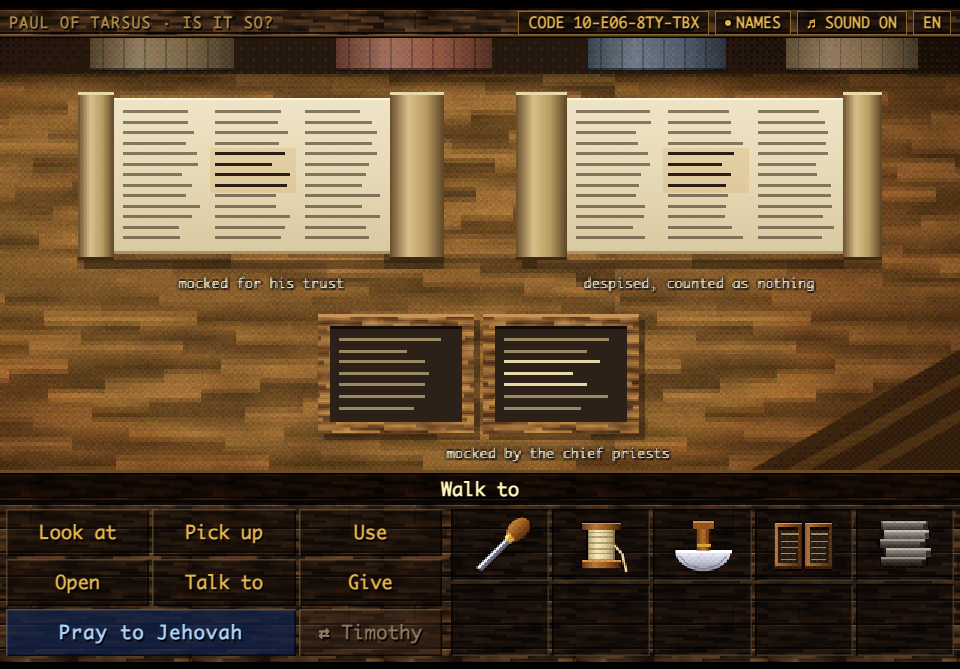
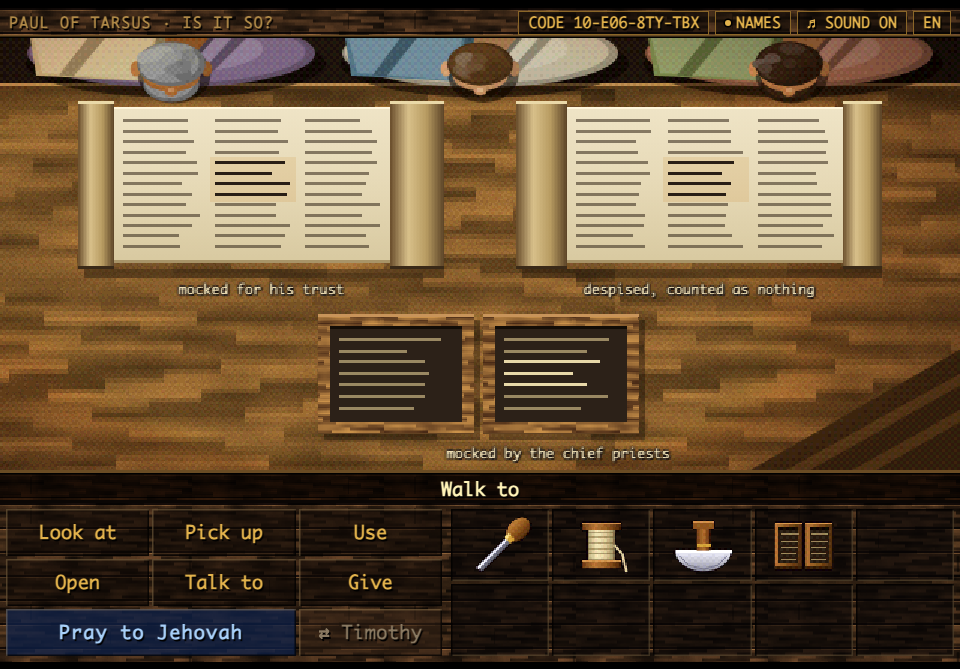
Chapter 10: paint scroll table listeners with top-down heads and shoulders

Changed region(s): [[0.0, 0.0598, 1.0, 0.4484], [0.9062, 0.7773, 0.9688, 0.867]]

diff --git a/levels/chapter10.js b/levels/chapter10.js
@@ -209,14 +209,30 @@ ART.syn10={w:320,q:12,
    under it, in the player's language (cap10). */
 const tabV=()=>F.gone?'b':'';
 /* where the scrolls lie: [left edge, width] for two, and for three */
-const SLOT={2:[[26,122],[172,122]],3:[[10,94],[113,94],[216,94]]},SY=20,SHH=52,ROLLW=11;
+const SLOT={2:[[26,122],[172,122]],3:[[10,94],[113,94],[216,94]]},SY=23,SHH=52,ROLLW=11;
 ART.table10={w:320,q:12,variant:tabV,
- paint(g,v){const r=rng(1019),b=v==='b',WD=b?'#8a6a3e':'#7a5a34';
+ paint(g,v){const r=rng(1019),b=v==='b',WD=b?'#8a6a3e':'#7a5a34',rim=15;
   R(g,0,0,320,144,WD);tex(g,'wood',.32,0,0,320,144,'overlay',1.6);tex(g,'grain',.1,0,0,320,144,'overlay',.5);
-  /* those who listen, across the table: their robes, cut off by the edge of the view. No faces. */
-  R(g,0,0,320,12,'#2a2018');for(const[x,w,c]of b?[[18,50,'#8e7a5a'],[92,44,'#5f7f8c'],[168,52,'#a89468'],[250,48,'#7a6a8a']]:[[30,48,'#7a6a52'],[112,52,'#8a5a4a'],[196,46,'#5a6a7a'],[262,44,'#9a8a6a']]){
-    g.fillStyle=lg(g,x,0,x+w,0,[tint(c,-.3),tint(c,.14),c,tint(c,-.4)]);g.fillRect(x,0,w,10.6);for(let i=4;i<w-3;i+=7)R(g,x+i,0,.6,10.6,'rgba(0,0,0,.2)');R(g,x,10,w,.8,'rgba(0,0,0,.4)')}
-  ao(g,0,12,320,7,'t',.4);
+  /* those who listen, across the table: seen from above, their shoulders in tunic and mantle and the crowns of their heads over the table's edge */
+  R(g,0,0,320,rim,'#231b15');R(g,0,rim,320,1.1,'#b08a58');R(g,0,rim+1.1,320,.9,'#5a4226');ao(g,0,rim+2,320,6,'t',.38);
+  const men=b?[[57,96,11.4,8.8,'#9a8664','#b8a47c','#b88a62','#d0d0d0',1,'#d0d0d0'],[160,92,11,8.5,'#6e8c82','#4f6f7c','#c89868','#2a1a12',0,null],[263,96,11.4,8.8,'#8e7a56','#b09a6c','#b47e52','#4a3220',0,'#4a3220']]
+    :[[57,96,11.4,8.8,'#7a6880','#b8a680','#a8703f','#8a8a8a',0,'#8a8a8a'],[160,92,11,8.5,'#b8b09c','#587482','#c69870','#5a4026',0,null],[263,96,11.4,8.8,'#9a705a','#7a8a5a','#c08c5c','#3a2a1c',0,'#3a2a1c']];
+  men.forEach(([cx,w,hrx,hry,tu,cl,sk,ha,bald,bd],i)=>{const mr=rng(4001+i*77+(b?0:300)),hw=w/2,shY=rim-10,hy=rim-5.2;
+    oval(g,cx+1.5,shY+3.5,hw+2,11.2,'rgba(14,10,8,.55)');
+    oval(g,cx,shY,hw,11.4,tint(tu,-.2));oval(g,cx-1.2,shY-.5,hw-2,10.6,tu);oval(g,cx-4,shY-1.5,hw*.72,8.5,tint(tu,.14));
+    poly(g,[cx+hw*.42,0,cx+hw*.52,0,cx+hw*.25,rim-2,cx+hw*.17,rim-1.6],tint(tu,-.24));
+    poly(g,[cx-hrx-3,0,cx+hrx+3,0,cx+4,hy+2,cx-4,hy+2],tint(tu,-.38));poly(g,[cx-hrx-1,0,cx+hrx+1,0,cx+3,hy+1,cx-3,hy+1],tint(sk,-.22));
+    poly(g,[cx-hw+1,0,cx-2,0,cx-5,rim-.5,cx-hw+3,rim-2.5],cl);poly(g,[cx-hw+2,0,cx-6,0,cx-9,rim-.9,cx-hw+5,rim-3.5],tint(cl,.16));
+    poly(g,[cx-hw*.58,0,cx-hw*.46,0,cx-hw*.68,rim-2.2,cx-hw*.78,rim-2.8],tint(cl,-.22));poly(g,[cx-5,0,cx-2,0,cx-5,rim-.5,cx-8,rim-.7],tint(cl,-.28));
+    oval(g,cx+1,hy+2.2,hrx+.8,hry+1,'rgba(18,12,8,.55)');
+    if(bd){oval(g,cx,hy+hry*.62,hrx*.82,hry*.68,tint(bd,-.22));oval(g,cx-.6,hy+hry*.56,hrx*.72,hry*.6,bd);oval(g,cx-1.5,hy+hry*.52,hrx*.45,hry*.42,tint(bd,.14))}
+    oval(g,cx,hy+hry*.32,hrx*.84,hry*.58,tint(sk,-.1));oval(g,cx-.6,hy+hry*.28,hrx*.72,hry*.48,sk);
+    oval(g,cx,hy+hry*.88,2.2,1.8,tint(sk,-.05));R(g,cx-1.2,hy+hry*.78,2,1.4,tint(sk,.18));
+    oval(g,cx-hrx-.4,hy+.4,1.8,2.6,tint(sk,.05));oval(g,cx+hrx+.4,hy+.4,1.8,2.6,tint(sk,-.18));
+    oval(g,cx,hy-1.2,hrx,hry*.85,tint(ha,-.22));oval(g,cx-.8,hy-1.6,hrx*.88,hry*.76,ha);
+    for(let j=0;j<18;j++){const a=mr()*6.2832,d=Math.sqrt(mr())*.78,lx=cx+Math.cos(a)*d*hrx,ly=(hy-1.4)+Math.sin(a)*d*hry*.75,
+      sh=(-(lx-cx)/hrx-(ly-hy)/hry)*.22+(mr()-.5)*.14;oval(g,lx,ly,2.2+mr()*1.8,1.6+mr()*1.2,tint(ha,sh))}
+    if(bald){oval(g,cx,hy+.4,hrx*.68,hry*.82,tint(sk,-.04));oval(g,cx-1.2,hy-.6,hrx*.48,hry*.58,tint(sk,.18))}});
   /* the steps down from the platform, at the near corner */
   poly(g,[250,144,320,104,320,144],'#4a3620');poly(g,[262,144,320,112,320,116,270,144],'#6a4e2c');poly(g,[284,144,320,124,320,128,292,144],'#6a4e2c');
   lightmap(g,320,b?'#c8c0b8':'#b8aeb0',l=>{pool(l,b?200:120,60,230,110,'#fff0d0',.8);pool(l,160,118,150,40,'#ffe8c0',.4)})},
@@ -240,7 +256,7 @@ ART.table10={w:320,q:12,variant:tabV,
       const sd=rng(1051+dx+(EV[st.t]?EV[st.t].seed:0));for(let j=0;j<7;j++)R(g,tx+dx+7,ty+8+j*3.8,22+sd()*14,.8,dx&&j>1&&j<5?'#e8d8a8':'#9a8862')}}},
  /* the names of what lies open: under each scroll, and on the near edge of the table for the tablets */
  front(g,t){const st=G.tab10;if(!st)return;const slots=SLOT[st.n];G.caps10=[];
-  st.s.forEach((k,i)=>{const[x,w]=slots[i];cap10(g,(k?PLACE[k]:SHUT).cap,x+w/2,SY+SHH+10,w+8)});
+  st.s.forEach((k,i)=>{const[x,w]=slots[i];cap10(g,(k?PLACE[k]:SHUT).cap,x+w/2,SY+SHH+9,w+8)});
   if(st.has)cap10(g,(st.t?EV[st.t]:CLOSED).cap,186,138.4,150)}};
 /* cap10: a caption on the table, in small letters with a dark edge, as the names on the map are written. It is made to fit its width. */
 function cap10(g,s,x,y,w){s=T(s);let sz=4.6;const font=z=>`bold ${z}px "Lucida Console",Monaco,"Courier New",monospace`;g.font=font(sz);g.textBaseline='middle';
@@ -829,7 +845,7 @@ const tabHs=n=>{const out=[];for(let i=0;i<n;i++){const live=()=>atTable()&&tabS
 ROOMS.table10={space:1.5,walk:NOW,mood:'table',amb:{},hs:[
   ...tabHs(2),...tabHs(3),
   {name:'my tablets on the table',x:104,y:90,w:112,h:44,wx:160,wy:236,def:'use',vis:()=>atTable()&&tabSt().has,use:leaf,look:readLeaf,pickup:'They lie where I need them: beside the scrolls.'},
-  {get name(){return F.gone?'Beroeans at the table':'men on the benches'},x:0,y:0,w:320,h:13,wx:160,wy:236,def:'talk',talk:lay,use:lay,
+  {get name(){return F.gone?'Beroeans at the table':'men on the benches'},x:0,y:0,w:320,h:17,wx:160,wy:236,def:'talk',talk:lay,use:lay,
     look:()=>say(P,F.gone?'They stand round the table with their hands on the rollers. Nobody here waits to be told.':'They are waiting. Whatever lies on this table when I look up is what I have shown them.')},
   {name:'steps of the platform',x:250,y:100,w:70,h:44,wx:160,wy:236,exit:fromTable,look:'The way back down from the table.'}]};
 ROOMS.night10={space:1.1,walk:[16,304,112,137],mood:'night',amb:{crickets:.4,fire:.15},hs:[
